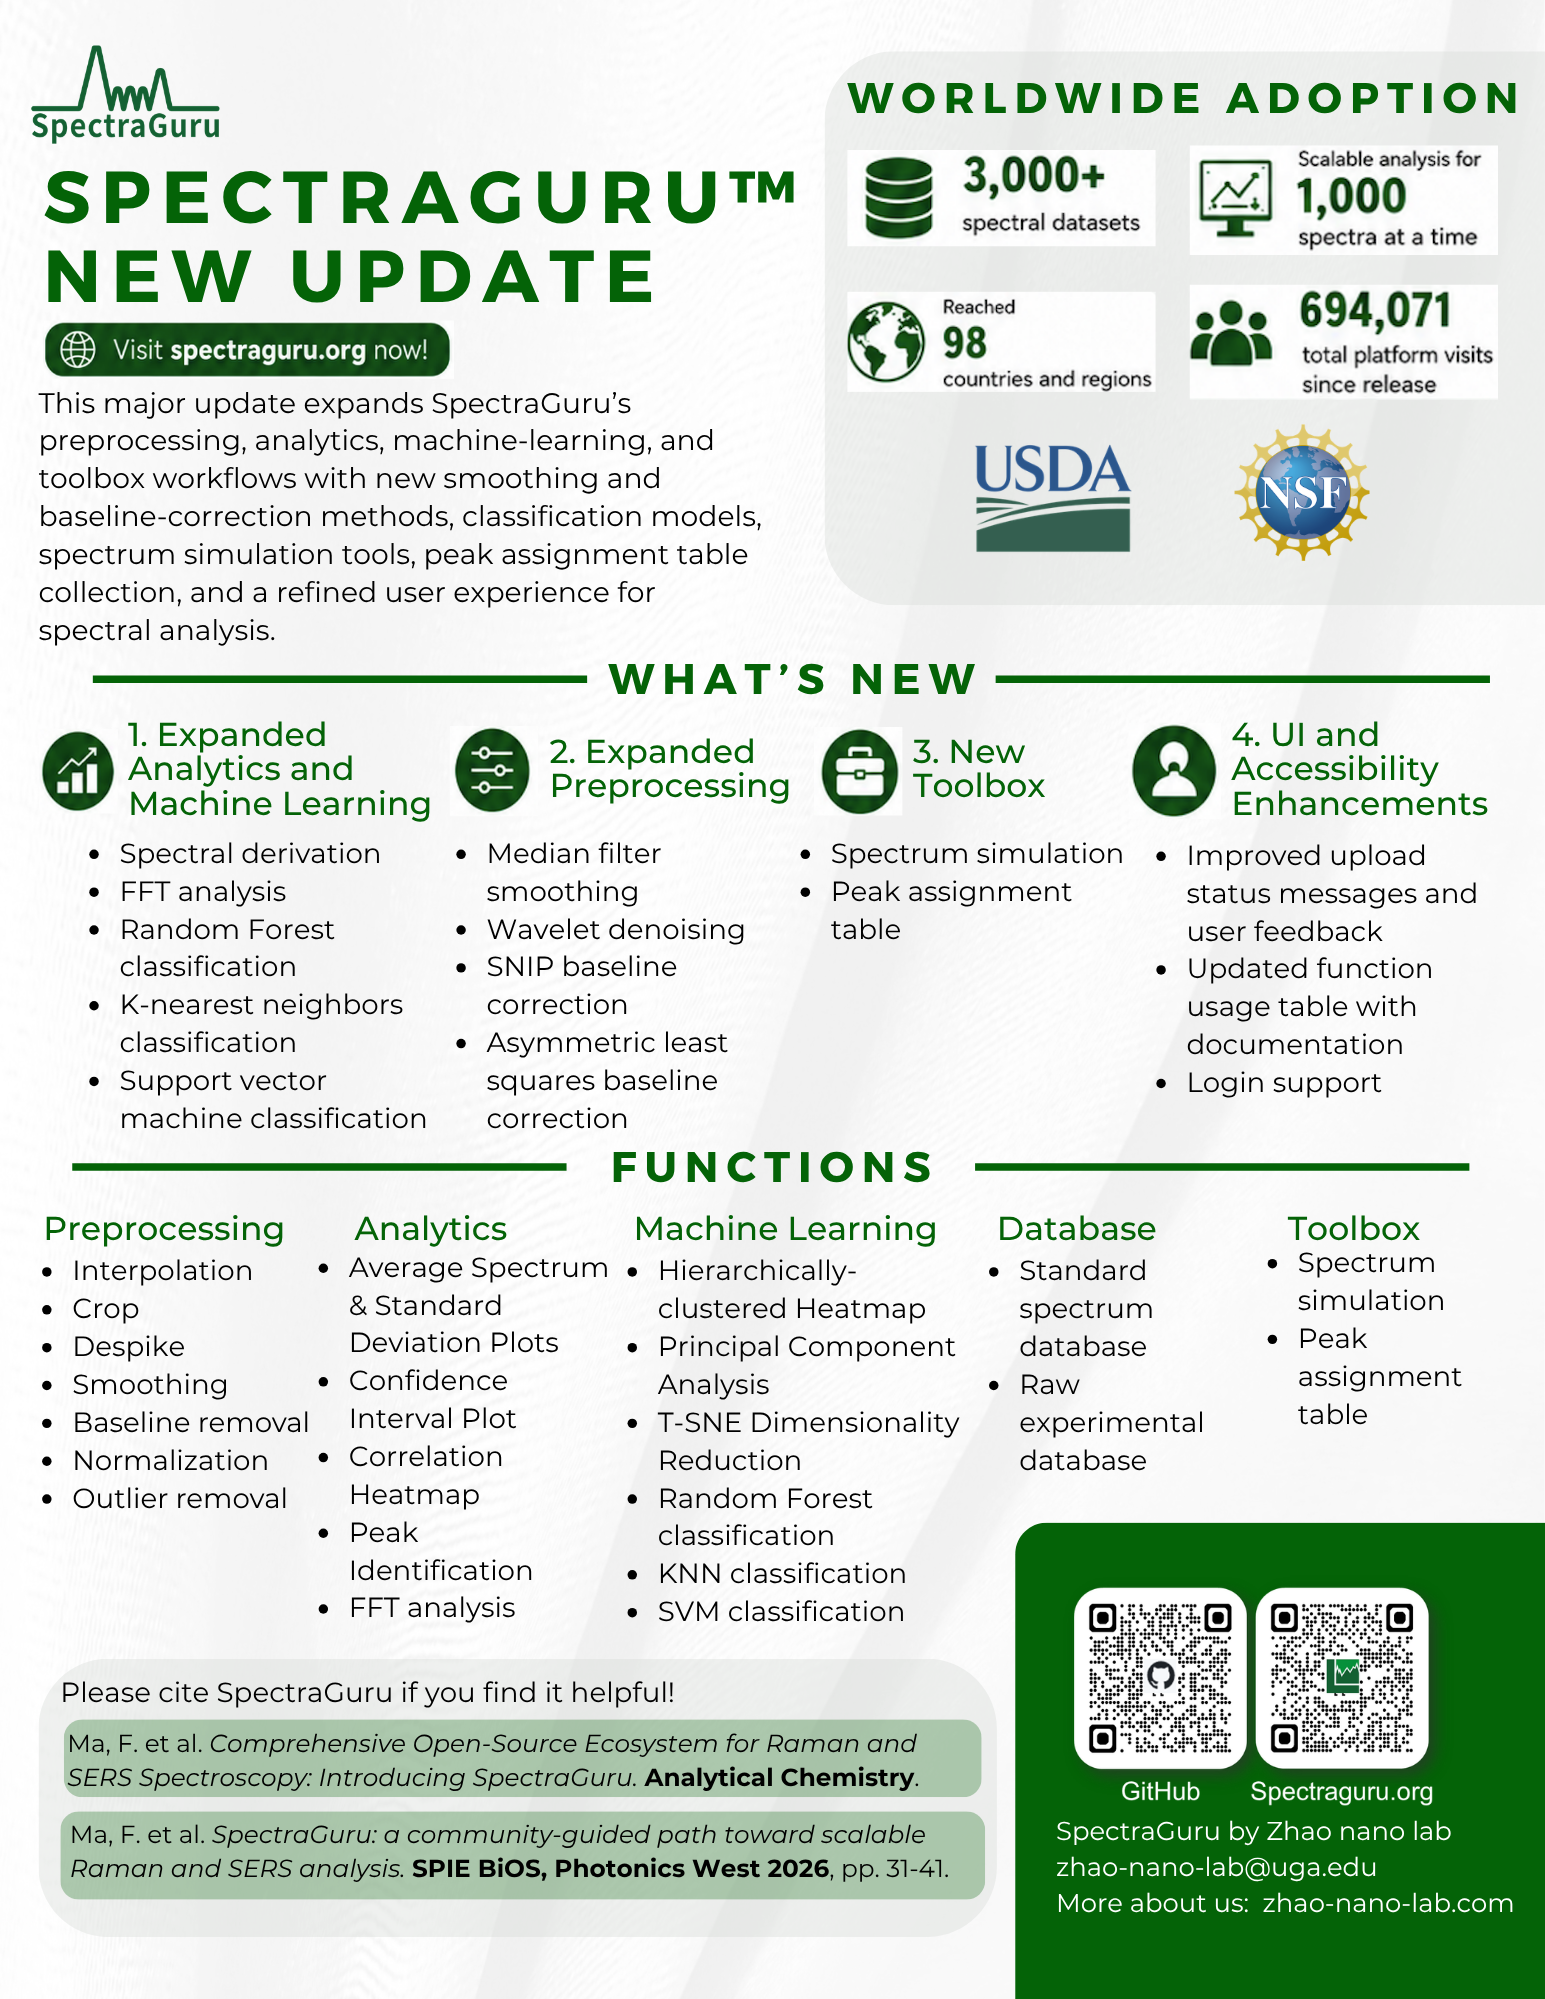
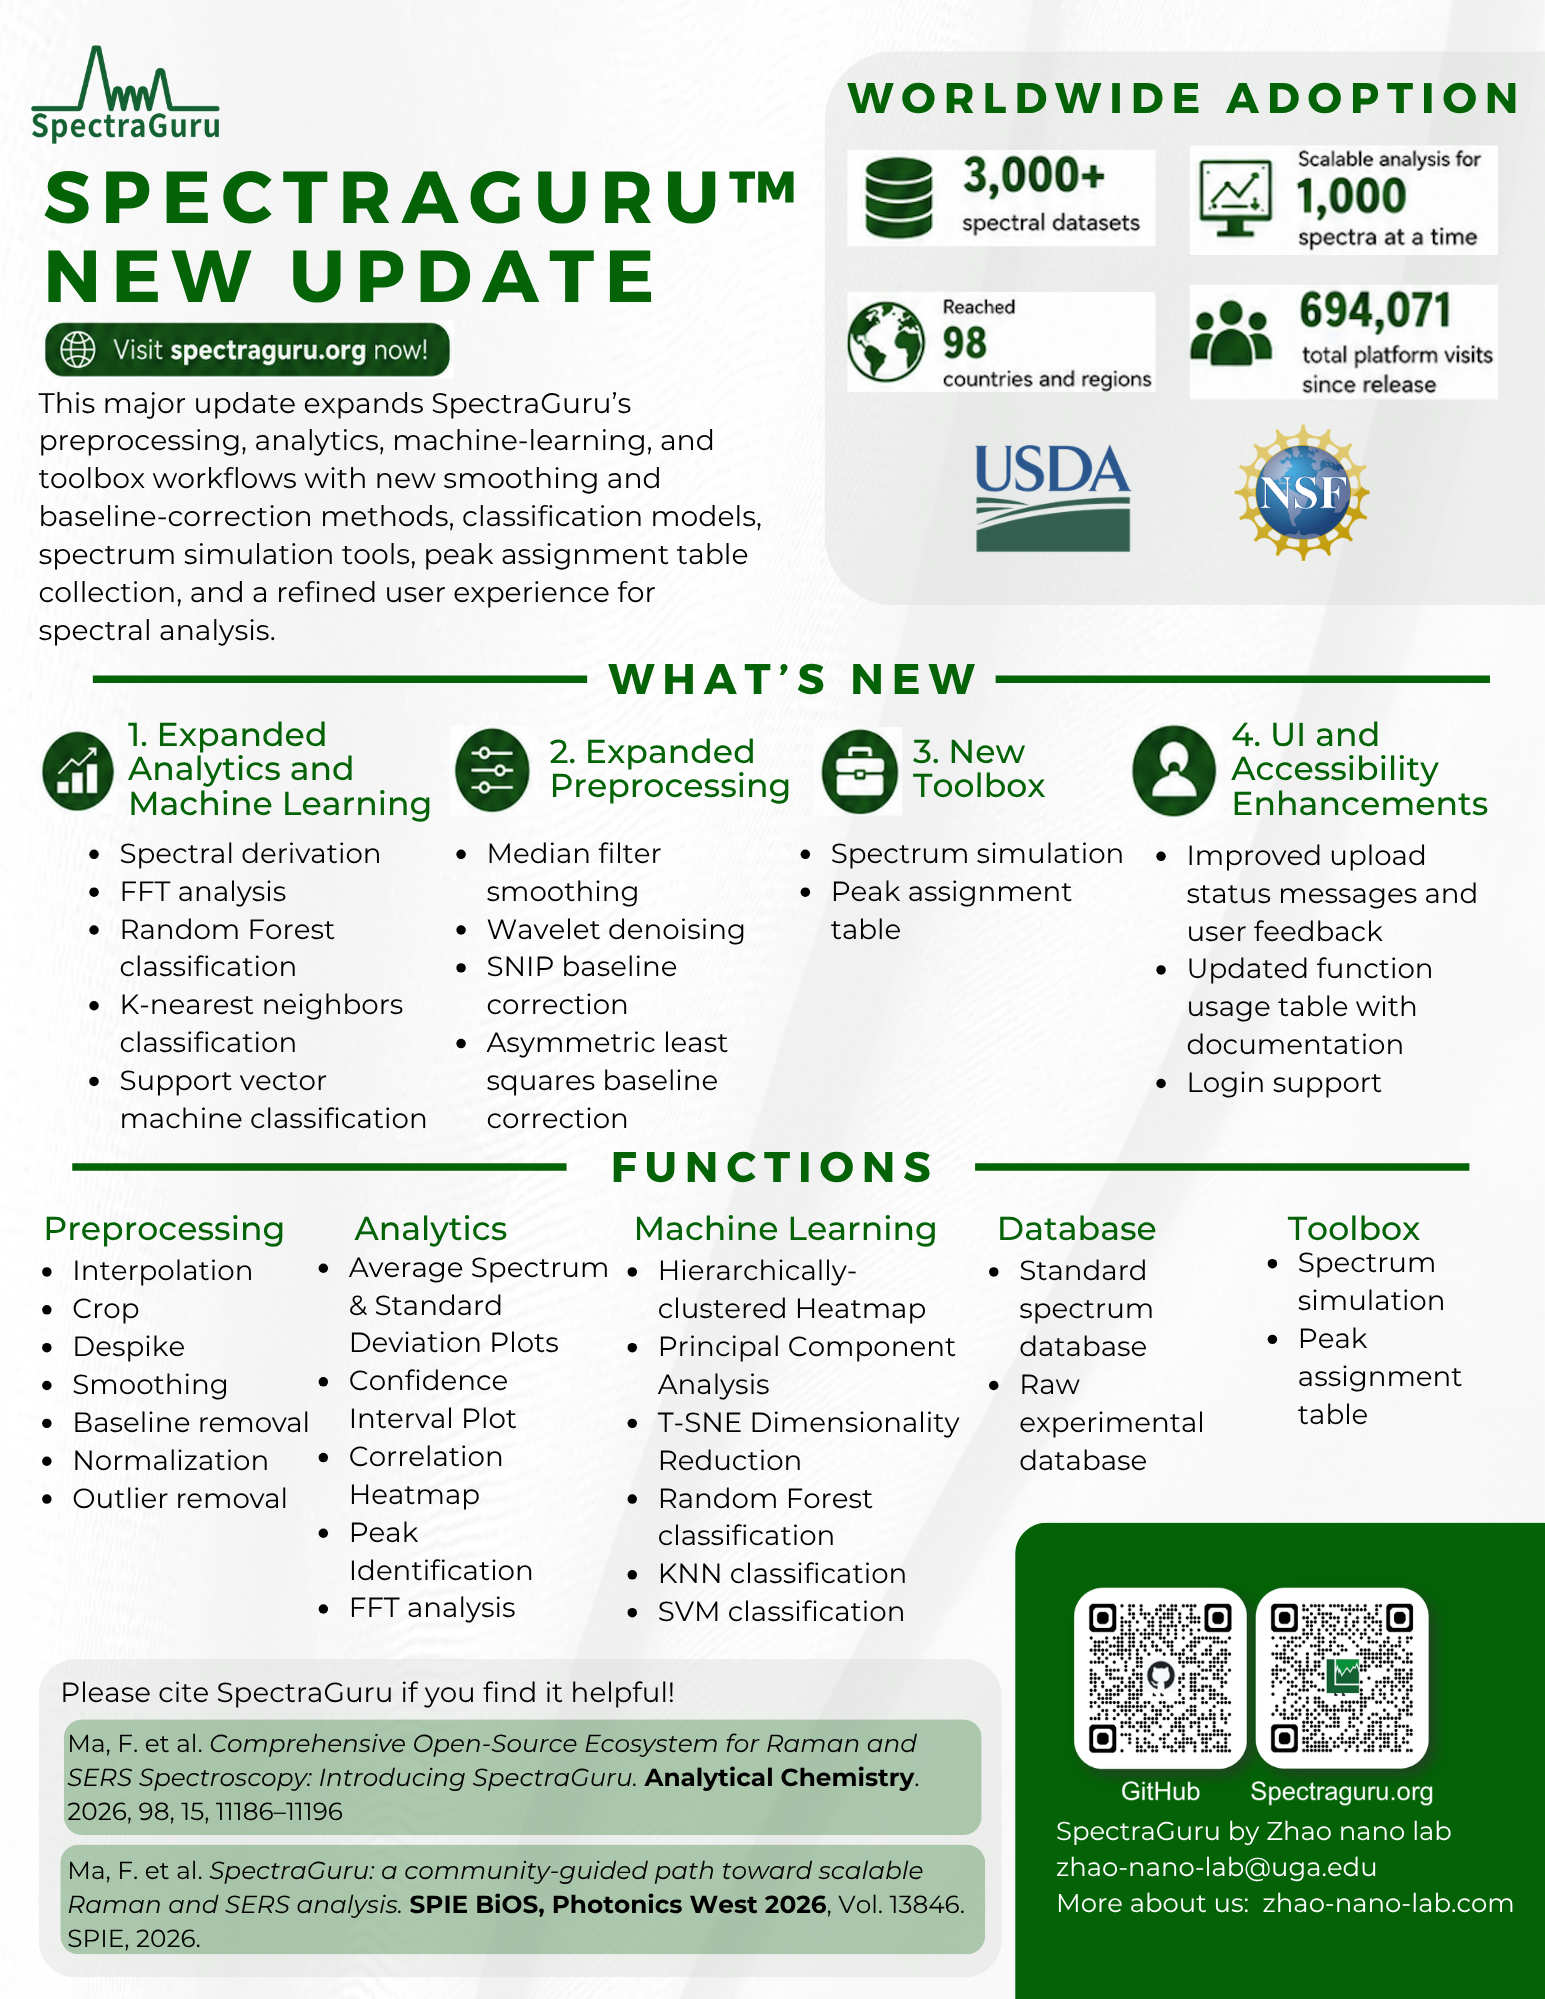
Update flyer and citation details

Changed region(s): [[0.0311, 0.8994, 0.6524, 0.9925]]

diff --git a/SpectraGuru Home.py b/SpectraGuru Home.py
@@ -236,7 +236,7 @@ st.markdown(
         </p>
         <div style="padding: 0.9rem 1rem; background: rgba(255, 255, 255, 0.72); border-radius: 14px; border: 1px solid rgba(15, 23, 42, 0.08); margin-bottom: 0.85rem;">
             <p style="margin: 0; line-height: 1.6;">
-                Fengbo Ma, Jiaheng Cui, Amit Kumar, Yanjun Yang, Xianyan Chen, and Yiping Zhao. <em>Comprehensive Open-Source Ecosystem for Raman and SERS Spectroscopy: Introducing SpectraGuru</em>. Analytical Chemistry. <a href="https://pubs.acs.org/doi/10.1021/acs.analchem.5c07799" target="_blank">Read online</a>
+                Fengbo Ma, Jiaheng Cui, Amit Kumar, Yanjun Yang, Xianyan Chen, and Yiping Zhao. <em>Comprehensive Open-Source Ecosystem for Raman and SERS Spectroscopy: Introducing SpectraGuru</em>. <em>Analytical Chemistry</em> 2026, 98 (15), 11186-11196. <a href="https://pubs.acs.org/doi/10.1021/acs.analchem.5c07799" target="_blank">Read online</a>
             </p>
         </div>
         <div style="padding: 0.9rem 1rem; background: rgba(255, 255, 255, 0.72); border-radius: 14px; border: 1px solid rgba(15, 23, 42, 0.08);">
